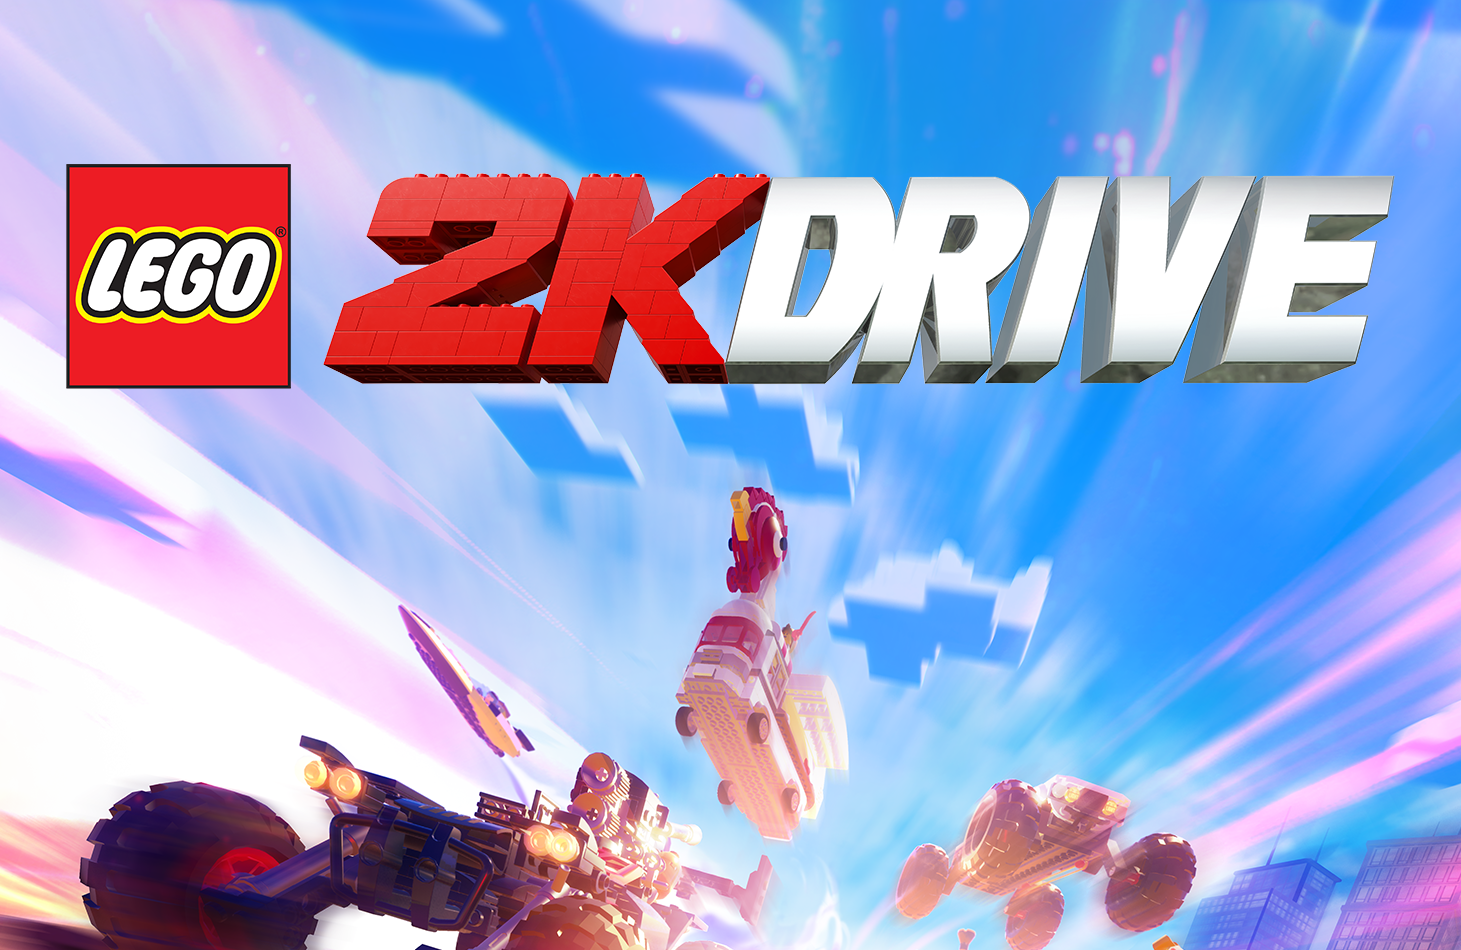
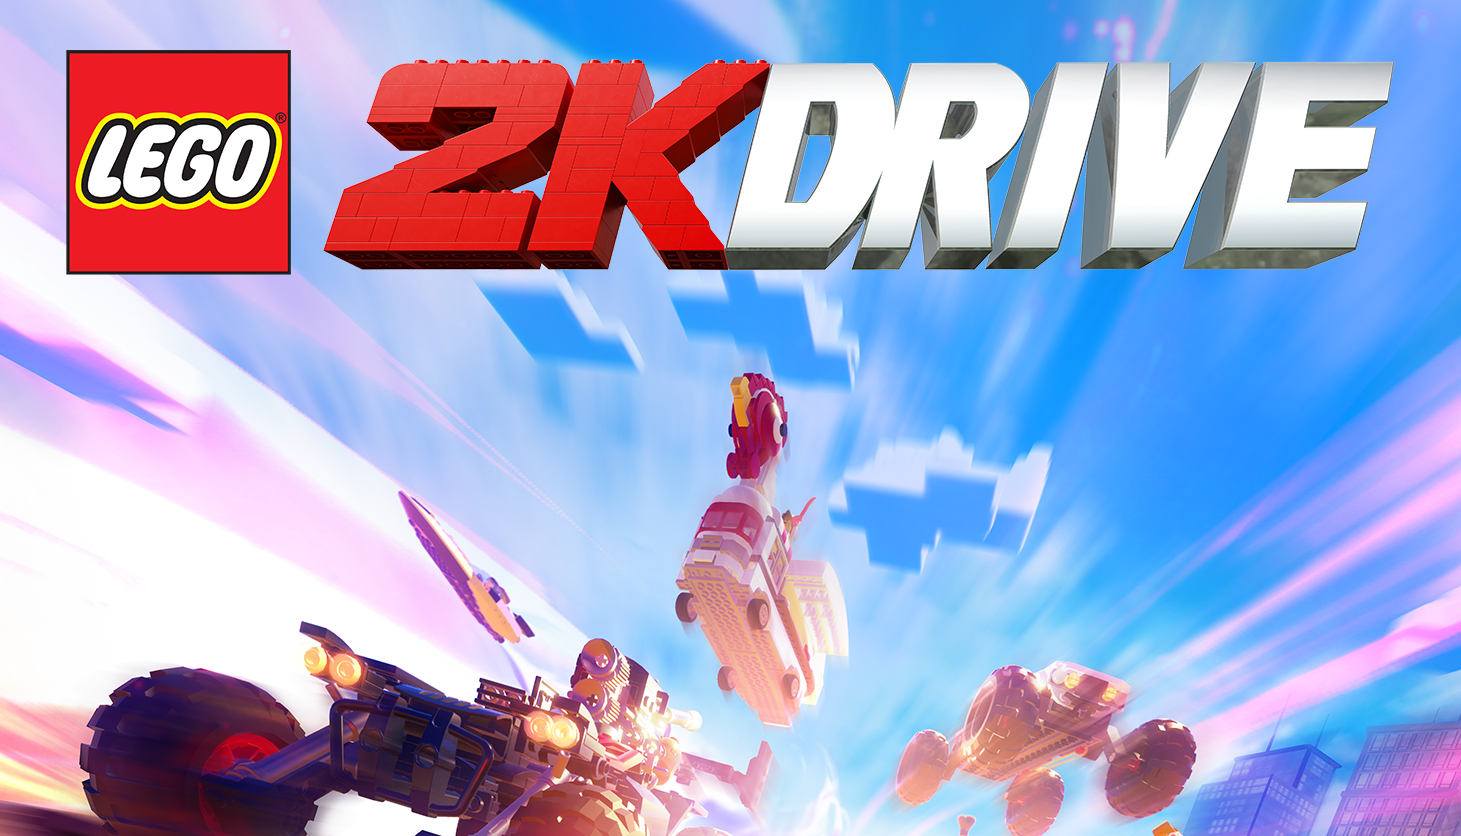
Near-final update for now

diff --git a/src/styles/themes.css b/src/styles/themes.css
@@ -1,4 +1,4 @@
-/* Default Theme - Laser */
+/* Default Theme - Soft laser with balanced text */
 :root {
   --accent: 255 0 100;
   --accent-muted: 200 0 80;
@@ -6,8 +6,8 @@
   --background: 20 0 10;
   --background-alt: 40 0 20;
   --charcoal: 40 0 20;
-  --foreground: 255 220 230;
-  --foreground-muted: 255 200 210;
+  --foreground: 255 238 243;
+  --foreground-muted: 238 210 220;
 }
 
 /* Neon Theme - Original default */
@@ -212,6 +212,18 @@
   --charcoal: 40 0 20;
   --foreground: 255 255 255;
   --foreground-muted: 220 220 220;
+}
+
+/* Laser Original - Pink-tinted text */
+[data-theme="laser-original"] {
+  --accent: 255 0 100;
+  --accent-muted: 200 0 80;
+  --accent-bright: 255 100 150;
+  --background: 20 0 10;
+  --background-alt: 40 0 20;
+  --charcoal: 40 0 20;
+  --foreground: 255 220 230;
+  --foreground-muted: 255 200 210;
 }
 
 /* Laser Headers - Pink headers, tinted text */

diff --git a/optimize-images.js b/optimize-images.js
@@ -155,6 +155,20 @@ async function processImages() {
     }
   }
 
+  // Process MikeMakeGame.png for hero banner
+  const heroPath = path.join('SourceArt', 'MikeMakeGame.png');
+  if (fs.existsSync(heroPath)) {
+    console.log('\n\nProcessing MikeMakeGame.png for hero banner...');
+
+    const heroOutput = path.join('public/banners', 'hero-logo.jpg');
+    await optimizeImage(heroPath, heroOutput, {
+      width: 1920,
+      height: 600,
+      quality: 90,
+      maxSize: 300
+    });
+  }
+
   console.log('\n✅ Image optimization complete!');
 }
 
